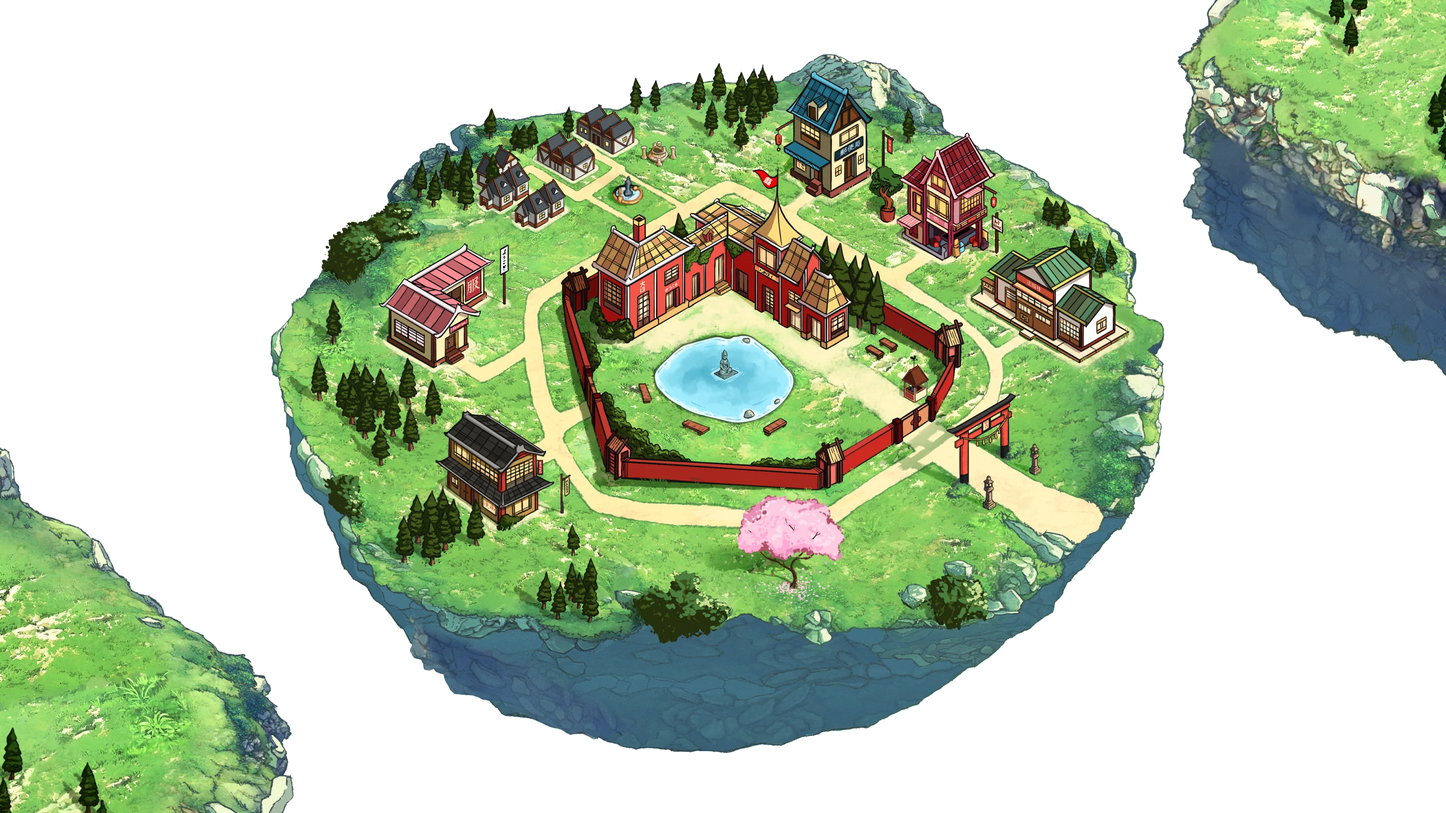
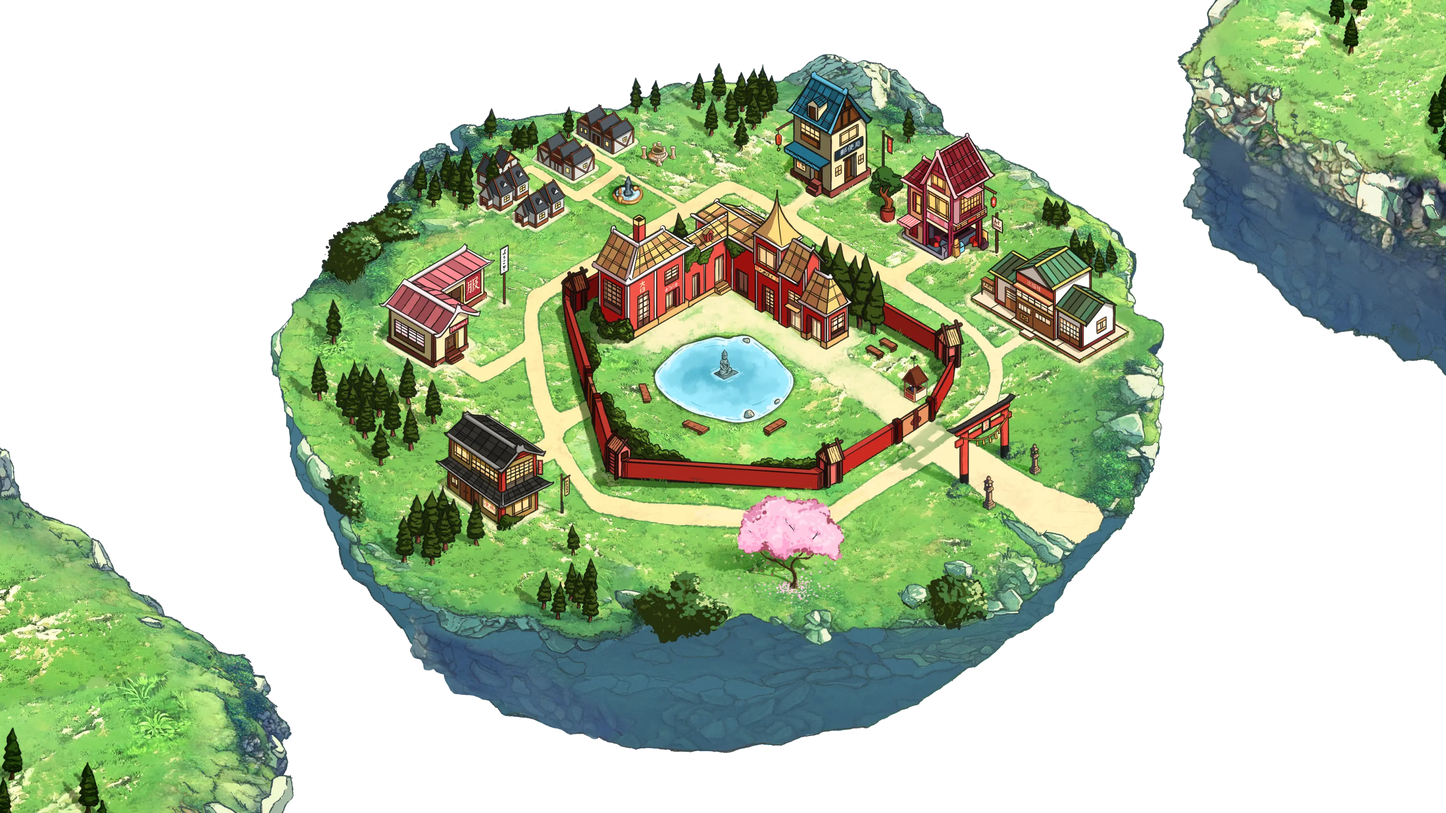
chore: commit all current workspace changes

diff --git a/apps/demo/src/maps/olympus.ts b/apps/demo/src/maps/olympus.ts
@@ -146,11 +146,11 @@ function buildPinnedSprites(
     {
       id: "flag",
       src: "/flag.png",
-      x: isMobile ? 900 * MOBILE_ASSET_SCALE : 900,
-      y: isMobile ? 1280 * MOBILE_ASSET_SCALE : 1280,
-      fps: 8,
+      x: isMobile ? 2033 * MOBILE_ASSET_SCALE : 2033,
+      y: isMobile ? 478 * MOBILE_ASSET_SCALE : 478,
+      fps: 4,
       zIndex: 2,
-      scale: 0.5625 * mobileScale,
+      scale: 0.08 * mobileScale,
       opacity: 1,
     },
   ];
